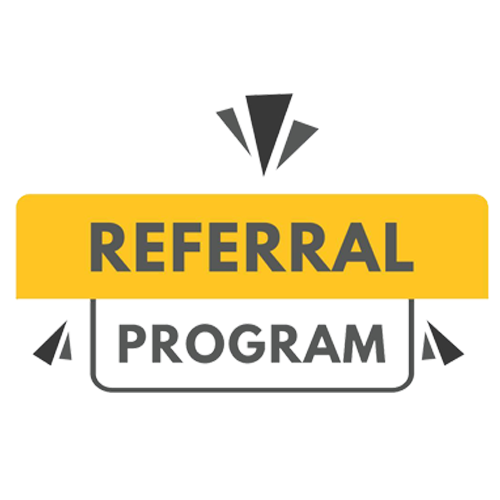
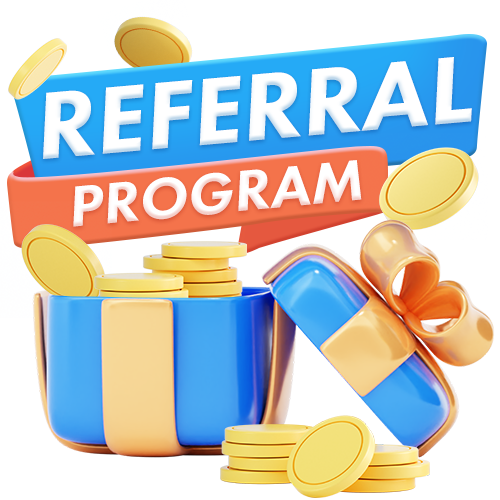
change anh

diff --git a/public/assets/publisher/assets/css/style2.css b/public/assets/publisher/assets/css/style2.css
@@ -7,3 +7,89 @@
 .copy-icon:hover {
     cursor: pointer;
 }
+.ringing{
+    animation: ring 4s .7s ease-in-out infinite;
+}
+@-webkit-keyframes ring {
+    0% { -webkit-transform: rotateZ(0); }
+    1% { -webkit-transform: rotateZ(30deg); }
+    3% { -webkit-transform: rotateZ(-28deg); }
+    5% { -webkit-transform: rotateZ(34deg); }
+    7% { -webkit-transform: rotateZ(-32deg); }
+    9% { -webkit-transform: rotateZ(30deg); }
+    11% { -webkit-transform: rotateZ(-28deg); }
+    13% { -webkit-transform: rotateZ(26deg); }
+    15% { -webkit-transform: rotateZ(-24deg); }
+    17% { -webkit-transform: rotateZ(22deg); }
+    19% { -webkit-transform: rotateZ(-20deg); }
+    21% { -webkit-transform: rotateZ(18deg); }
+    23% { -webkit-transform: rotateZ(-16deg); }
+    25% { -webkit-transform: rotateZ(14deg); }
+    27% { -webkit-transform: rotateZ(-12deg); }
+    29% { -webkit-transform: rotateZ(10deg); }
+    31% { -webkit-transform: rotateZ(-8deg); }
+    33% { -webkit-transform: rotateZ(6deg); }
+    35% { -webkit-transform: rotateZ(-4deg); }
+    37% { -webkit-transform: rotateZ(2deg); }
+    39% { -webkit-transform: rotateZ(-1deg); }
+    41% { -webkit-transform: rotateZ(1deg); }
+
+    43% { -webkit-transform: rotateZ(0); }
+    100% { -webkit-transform: rotateZ(0); }
+}
+
+@-moz-keyframes ring {
+    0% { -moz-transform: rotate(0); }
+    1% { -moz-transform: rotate(30deg); }
+    3% { -moz-transform: rotate(-28deg); }
+    5% { -moz-transform: rotate(34deg); }
+    7% { -moz-transform: rotate(-32deg); }
+    9% { -moz-transform: rotate(30deg); }
+    11% { -moz-transform: rotate(-28deg); }
+    13% { -moz-transform: rotate(26deg); }
+    15% { -moz-transform: rotate(-24deg); }
+    17% { -moz-transform: rotate(22deg); }
+    19% { -moz-transform: rotate(-20deg); }
+    21% { -moz-transform: rotate(18deg); }
+    23% { -moz-transform: rotate(-16deg); }
+    25% { -moz-transform: rotate(14deg); }
+    27% { -moz-transform: rotate(-12deg); }
+    29% { -moz-transform: rotate(10deg); }
+    31% { -moz-transform: rotate(-8deg); }
+    33% { -moz-transform: rotate(6deg); }
+    35% { -moz-transform: rotate(-4deg); }
+    37% { -moz-transform: rotate(2deg); }
+    39% { -moz-transform: rotate(-1deg); }
+    41% { -moz-transform: rotate(1deg); }
+
+    43% { -moz-transform: rotate(0); }
+    100% { -moz-transform: rotate(0); }
+}
+
+@keyframes ring {
+    0% { transform: rotate(0); }
+    1% { transform: rotate(30deg); }
+    3% { transform: rotate(-28deg); }
+    5% { transform: rotate(34deg); }
+    7% { transform: rotate(-32deg); }
+    9% { transform: rotate(30deg); }
+    11% { transform: rotate(-28deg); }
+    13% { transform: rotate(26deg); }
+    15% { transform: rotate(-24deg); }
+    17% { transform: rotate(22deg); }
+    19% { transform: rotate(-20deg); }
+    21% { transform: rotate(18deg); }
+    23% { transform: rotate(-16deg); }
+    25% { transform: rotate(14deg); }
+    27% { transform: rotate(-12deg); }
+    29% { transform: rotate(10deg); }
+    31% { transform: rotate(-8deg); }
+    33% { transform: rotate(6deg); }
+    35% { transform: rotate(-4deg); }
+    37% { transform: rotate(2deg); }
+    39% { transform: rotate(-1deg); }
+    41% { transform: rotate(1deg); }
+
+    43% { transform: rotate(0); }
+    100% { transform: rotate(0); }
+}

diff --git a/resources/views/publisher/base.blade.php b/resources/views/publisher/base.blade.php
@@ -236,7 +236,7 @@ $skype = !empty($userAssign) ? \App\Models\User::find($userAssign->user_id)->sky
     <div class="row mt-3">
         <div class="col-sm-12">
             <div id="widget-referral">
-                <button type="button" class="btn" data-bs-toggle="popover" data-bs-placement="bottom" data-bs-html="true" data-bs-content-id="popover-content">
+                <button type="button" class="btn ringing" data-bs-toggle="popover" data-bs-placement="bottom" data-bs-html="true" data-bs-content-id="popover-content">
                     <img src="assets/img/referal-bonus-maxvalue.png" style="width: 100px">
                 </button>
                 <div id="popover-content" class="d-none">
